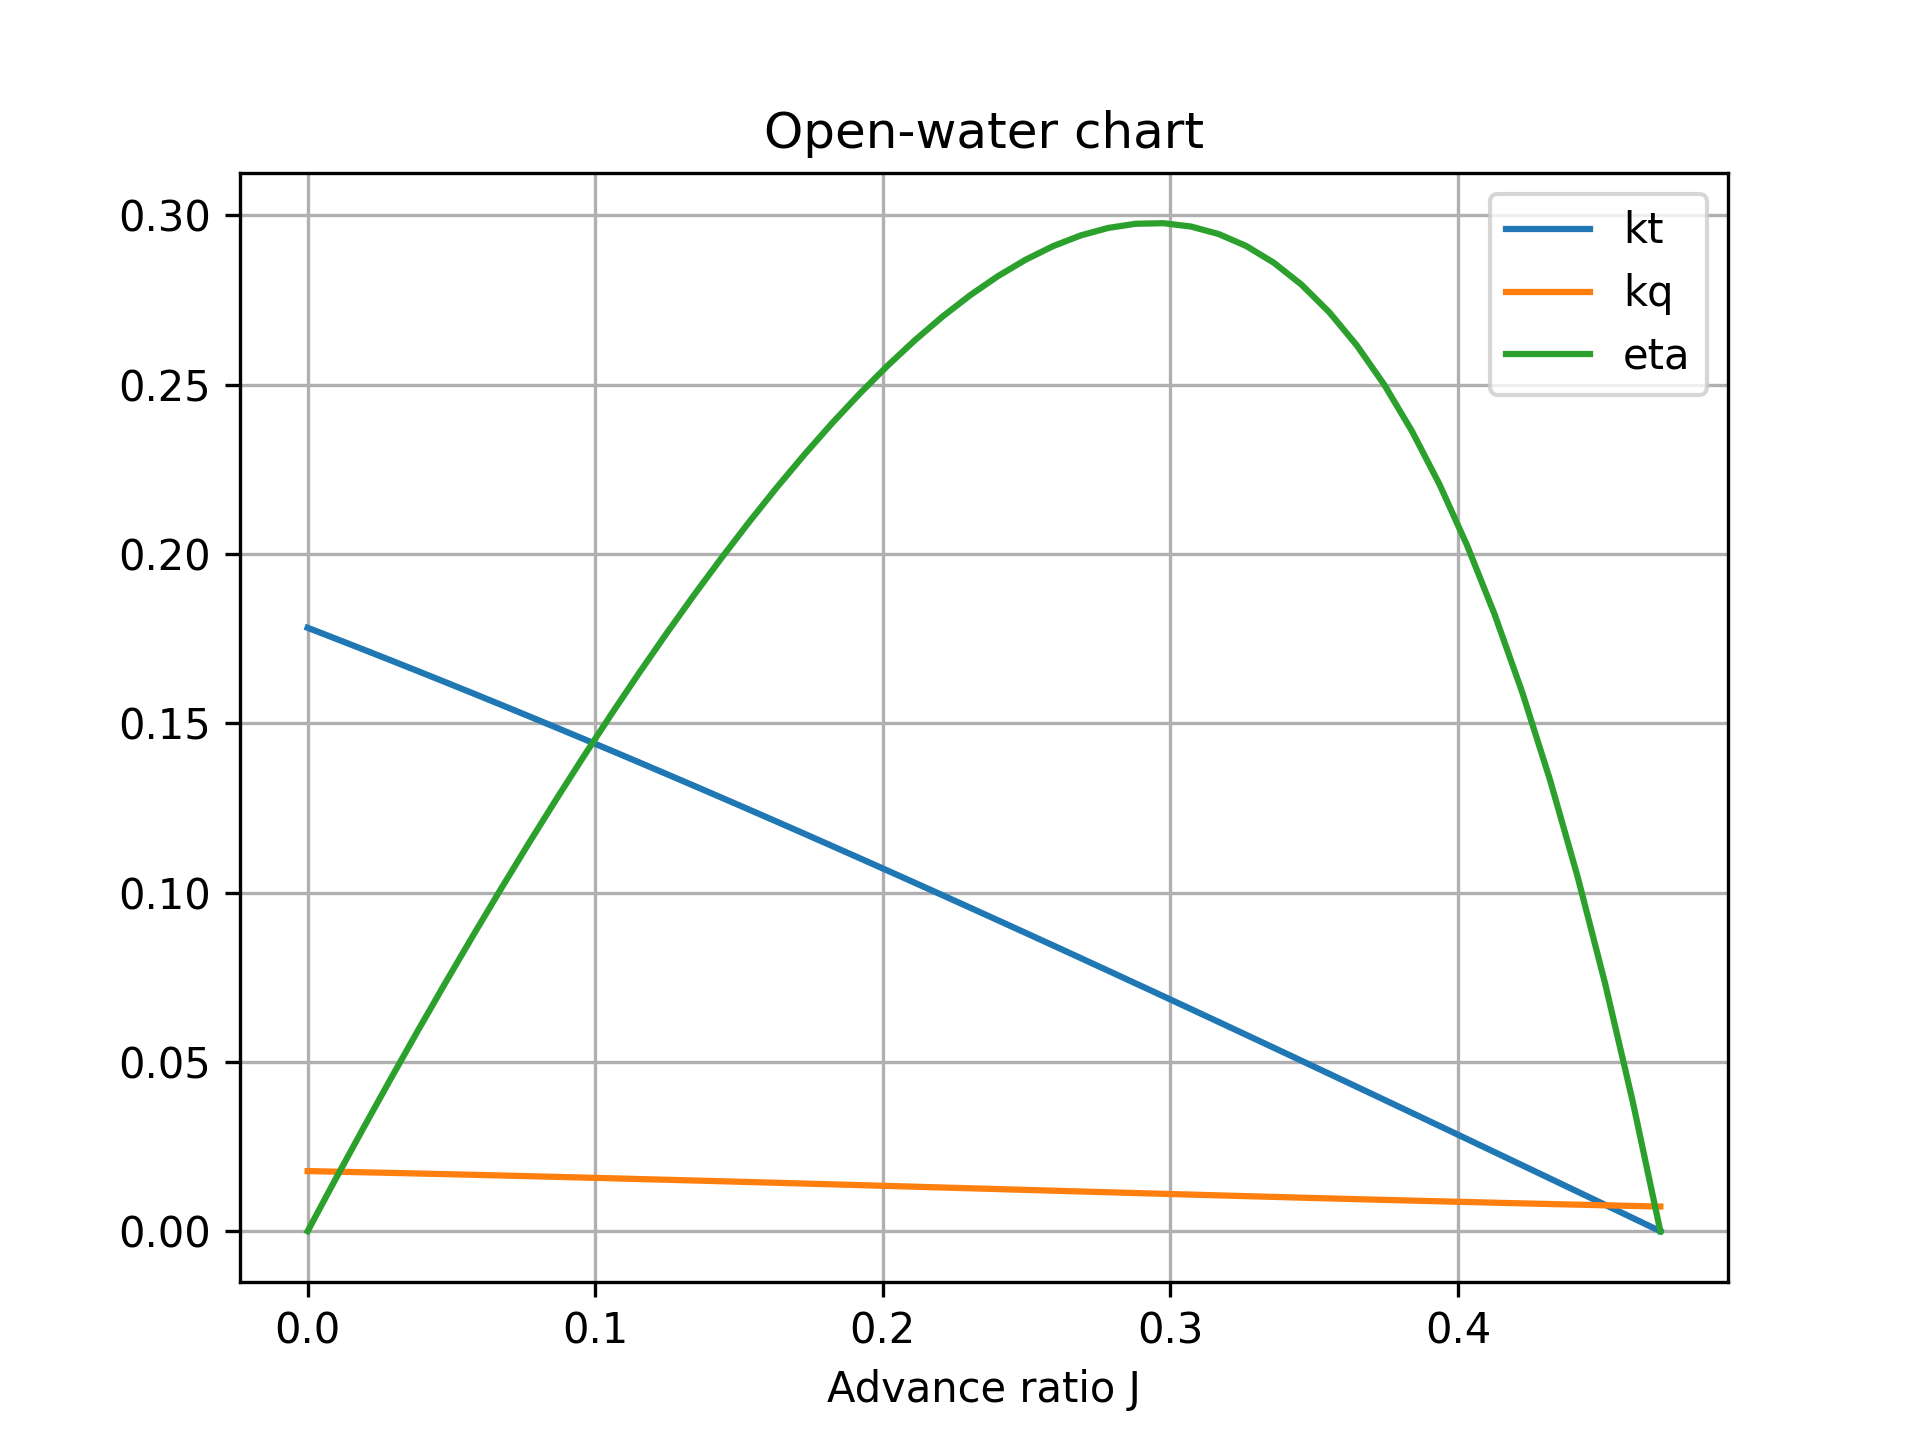
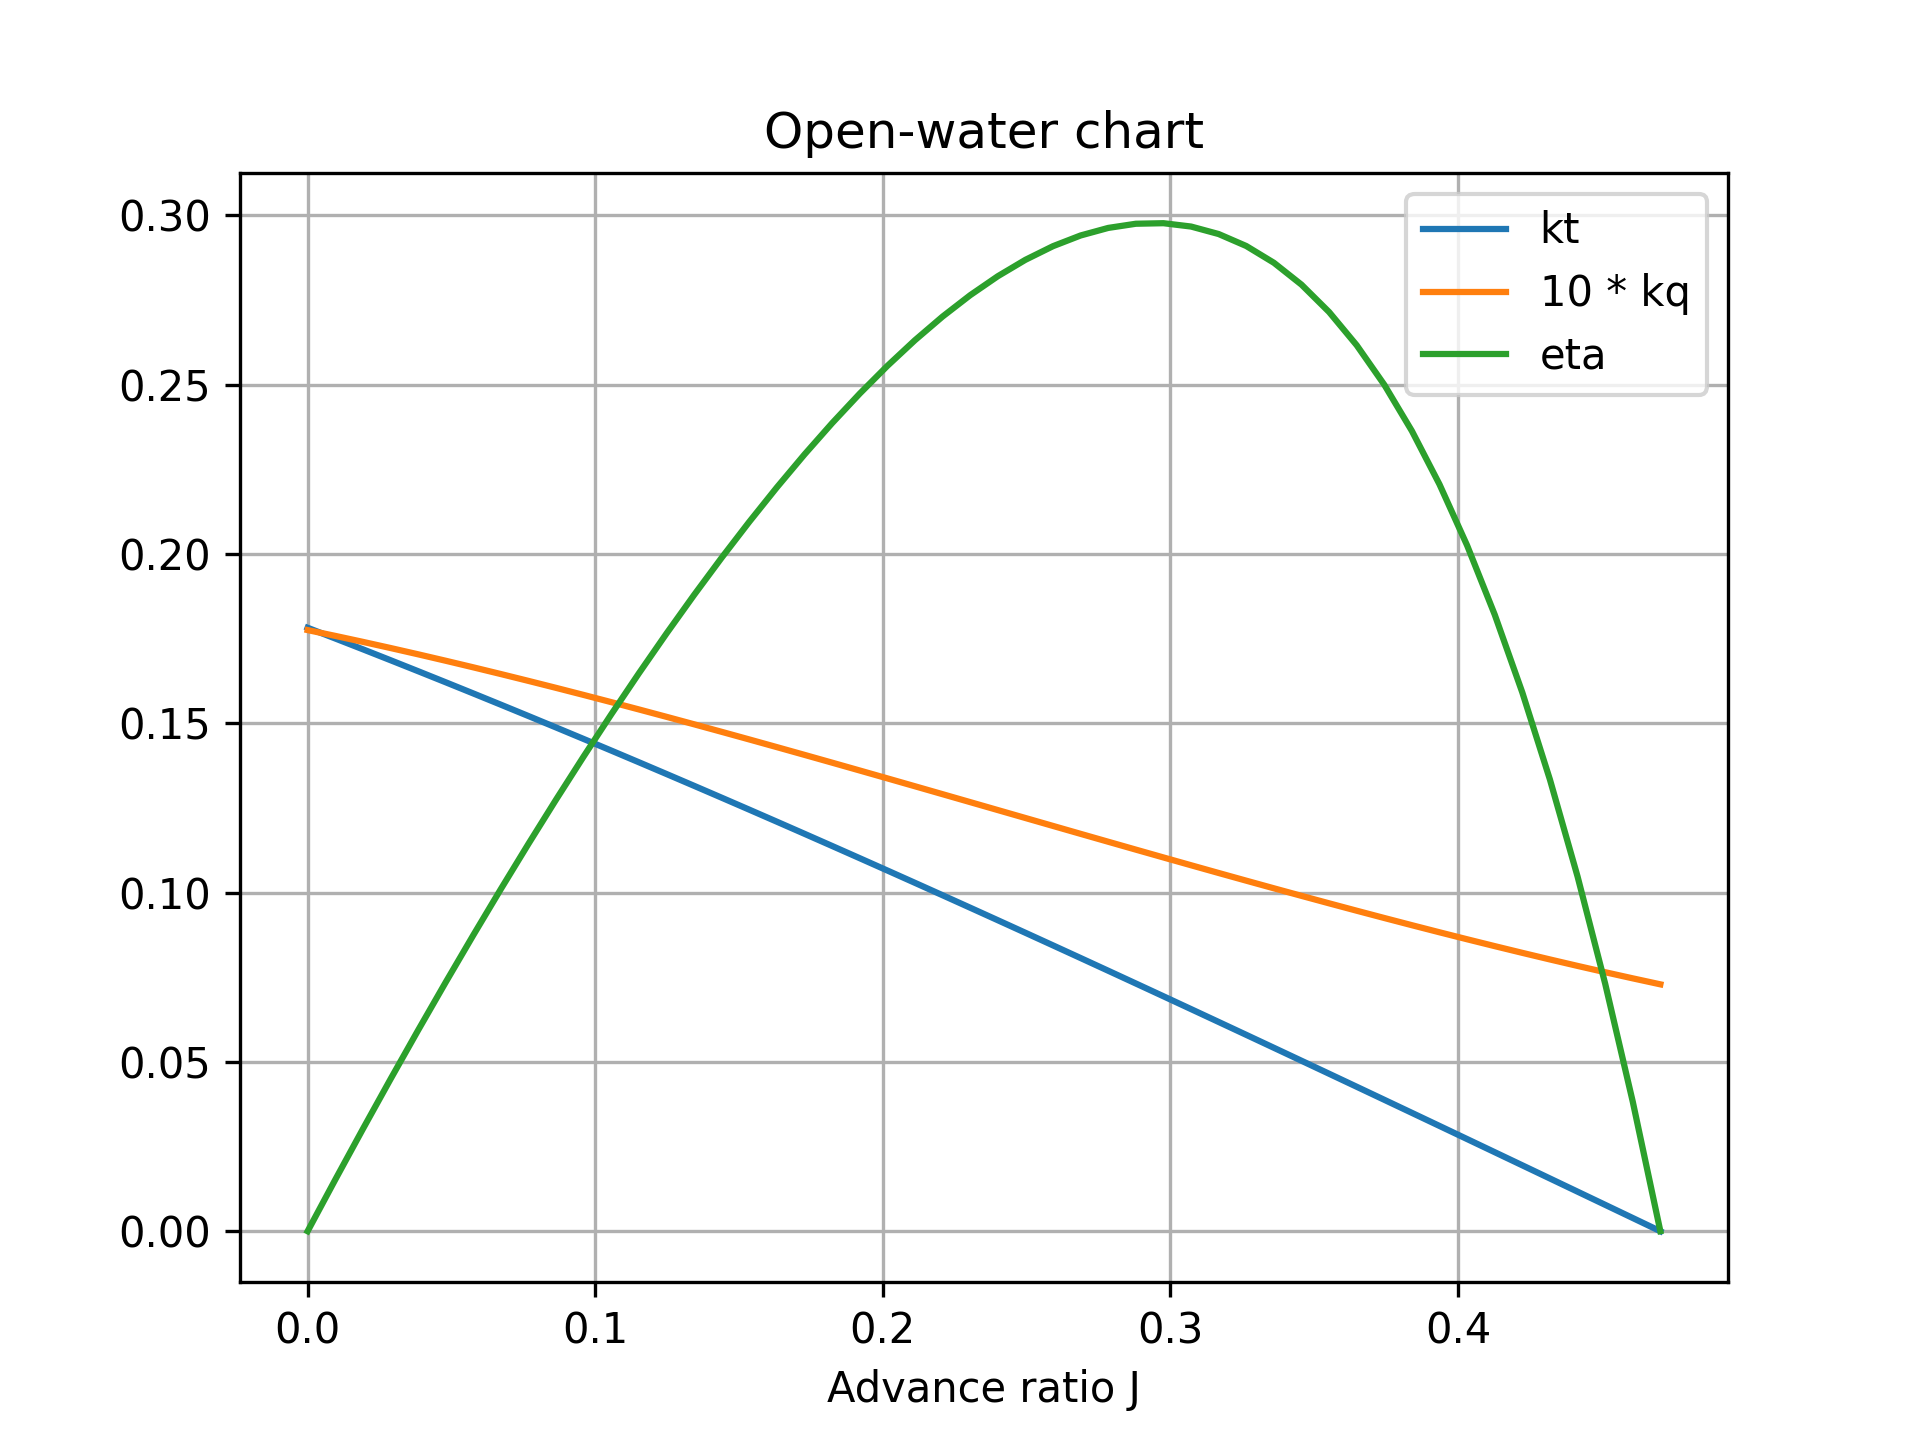
Clarified open water chart

diff --git a/doc/generate_open_water_chart.py b/doc/generate_open_water_chart.py
@@ -3,23 +3,25 @@ import matplotlib.pyplot as plt
 
 from propy import WageningenBPropeller
 
-prop = WageningenBPropeller(
-    diameter=0.3,
-    blades=2,
-    area_ratio=0.9,
-    pd_ratio=0.5
-)
 
-j = np.linspace(0, prop.j_max)
+if __name__ == "__main__":
+    prop = WageningenBPropeller(
+        diameter=0.3,
+        blades=2,
+        area_ratio=0.9,
+        pd_ratio=0.5
+    )
 
-plt.figure()
-plt.plot(j, prop.kt(j), label='kt')
-plt.plot(j, prop.kq(j), label='kq')
-plt.plot(j, prop.eta(j), label='eta')
+    j = np.linspace(0, prop.j_max)
 
-plt.xlabel('Advance ratio J')
-plt.title(f'Open-water chart')
-plt.grid()
-plt.legend()
+    plt.figure()
+    plt.plot(j, prop.kt(j), label='kt')
+    plt.plot(j, prop.kq(j) * 10, label='10 * kq')
+    plt.plot(j, prop.eta(j), label='eta')
 
-plt.savefig('open_water_chart.png', dpi=300)
+    plt.xlabel('Advance ratio J')
+    plt.title(f'Open-water chart')
+    plt.grid()
+    plt.legend()
+
+    plt.savefig('open_water_chart.png', dpi=300)

diff --git a/README.md b/README.md
@@ -63,7 +63,7 @@ j = np.linspace(0, prop.j_max)
 
 plt.figure()
 plt.plot(j, prop.kt(j), label='kt')
-plt.plot(j, prop.kq(j), label='kq')
+plt.plot(j, prop.kq(j)*10, label='10*kq')
 plt.plot(j, prop.eta(j), label='eta')
 
 plt.xlabel('Advance ratio J')
@@ -73,6 +73,7 @@ plt.legend()
 ```
 
 ![Open water chart](doc/open_water_chart.png)
+
 
 ## Development
 
